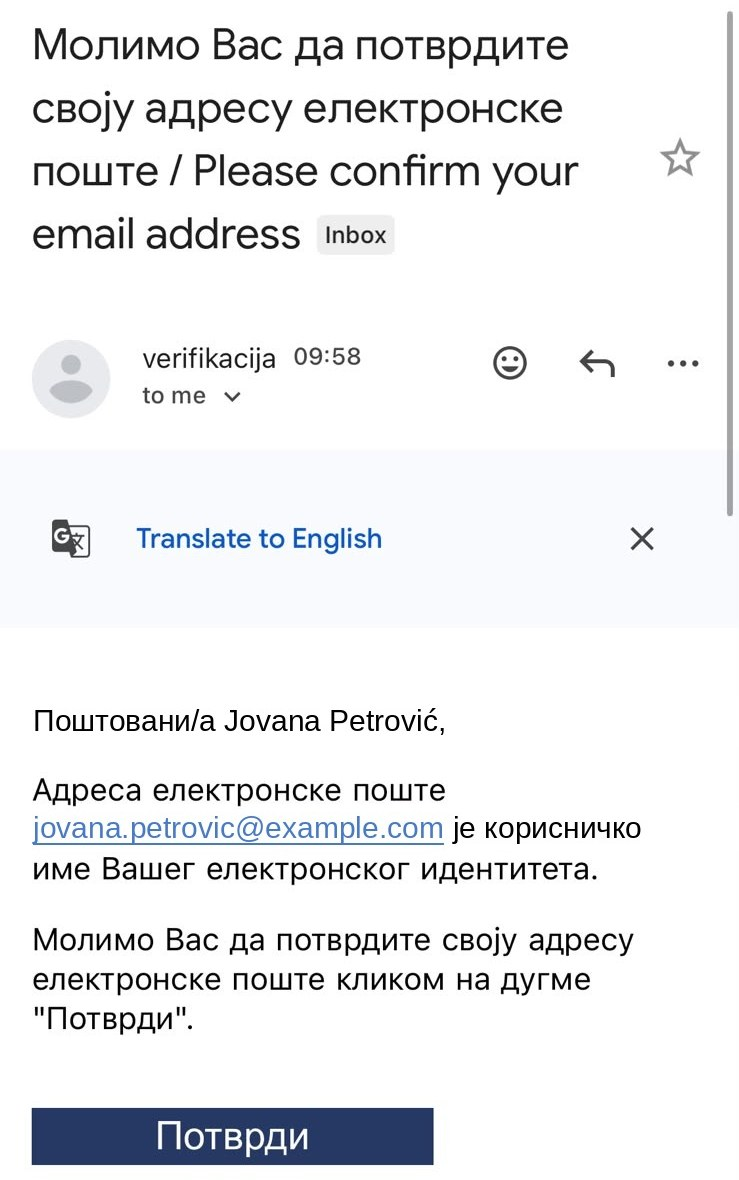
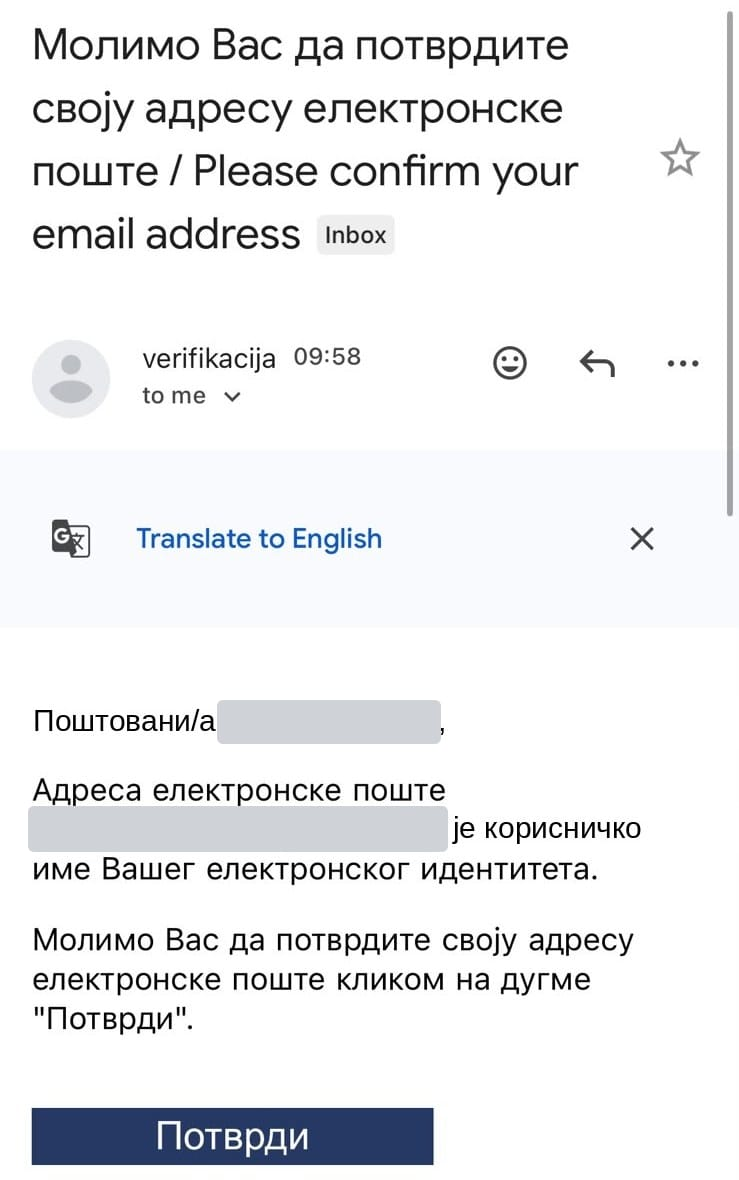
content: apply review for the registration flow
1. Removed group Крај from done, done-basic and help-contact; end screens show no progress line, groups are now 5.
2. help-contact links the eID contact form (https://eid.gov.rs/sr-Cyrl-RS/kontakt); no phone number is published on eid.gov.rs or euprava.gov.rs, so none added.
3. email-missing gets answer Погрешио/ла сам адресу -> register-open; body names the button.
4. check-id-card specimen cropped to the chip card front (800x508); prepare-id-photos front and back stacked (800x1040); Latin caption removed, alt text updated.
5. register-error gets answer Већ сам регистрован/а -> confirm-email; body points to it instead of "try to log in".
6. confirm-email screenshot: name and email address covered with grey boxes; not recaptured, Gmail UI stays English.
7. wait-activation adds "или на почетку изаберите Већ имам налог".
8. how-to-get-id-card: dropped the passport sentence.
9. activate-consentid failure label changed to Нисам успео/ла, matching create-email.
10. register-open: three actions as a numbered list.
11. prepare-id-photos: фотографију -> фотографије.
12. account-ready: Портал Локалне пореске администрације (ЛПА) on first use.
13. email-missing: folder Непожељно (Spam) and category Промоције, per Google's Serbian Gmail help.
14. how-to-get-id-card links the MUP ID card page /wps/portal/sr/gradjani/dokumenta/licna+karta (200).
15. create-email: accounts.google.com/signup opens the name form on iPhone 13 webkit; URL unchanged.
[…]

Changed region(s): [[0.0311, 0.6712, 0.6225, 0.7322], [0.2801, 0.5797, 0.6225, 0.6407]]

diff --git a/content/nodes/prepare-id-photos/index.md b/content/nodes/prepare-id-photos/index.md
@@ -1,10 +1,10 @@
-На регистрацији ћете приложити фотографију личне карте. Боље је да их направите сада.
+На регистрацији ћете приложити фотографије личне карте. Боље је да их направите сада.
 
 1. Ставите личну карту на сто, на тамну подлогу.
 2. Упалите светло, али пазите да се на картици не сија одсјај.
 3. Фотографишите **предњу** страну. Сва четири угла морају да се виде.
 4. Окрените картицу и фотографишите **задњу** страну.
 
-![Специмен личне карте, предња и задња страна](./id-card-specimen.jpg)
+![Специмен личне карте: предња страна горе, задња страна доле](./id-card-specimen.jpg)
 
 Ако се региструјете пасошем, фотографишите страну са својом сликом.

diff --git a/content/nodes/register-open/index.md b/content/nodes/register-open/index.md
@@ -1,3 +1,7 @@
-Притисните дугме испод. Отвориће се формулар за регистрацију на Порталу еИД (eid.gov.rs). То је налог којим улазите на еУправу.
+Формулар за регистрацију је на Порталу еИД (eid.gov.rs). То је налог којим улазите на еУправу.
 
-Држите овај водич отворен. Када видите формулар, вратите се овде и притисните **Видим формулар**. Водич ће вам рећи шта да упишете у које поље.
+1. Притисните дугме испод.
+2. Када се формулар отвори, вратите се у овај водич. Не затварајте га.
+3. Притисните **Видим формулар**.
+
+Водич ће вам рећи шта да упишете у које поље.

diff --git a/content/nodes/register-error/index.md b/content/nodes/register-error/index.md
@@ -2,7 +2,7 @@
 
 - **ЈМБГ** — проверите да сте уписали свих 13 цифара.
 - **Име и презиме** — морају бити исти као у личној карти.
-- **Имејл** — ако пише да адреса већ постоји, можда сте већ регистровани. Покушајте да се пријавите.
+- **Имејл** — ако пише да адреса већ постоји, можда сте већ регистровани. Притисните **Већ сам регистрован/а** и потражите поруку за потврду у пошти.
 - **Фотографије** — ако је слика превелика, фотографишите поново, без зумирања.
 
 Поправите поље и поново притисните **Региструј ме**.

diff --git a/content/nodes/email-missing/index.md b/content/nodes/email-missing/index.md
@@ -1,7 +1,7 @@
 Порука понекад стигне после неколико минута.
 
 1. Сачекајте десет минута и освежите пошту.
-2. Погледајте у фасцикли **Нежељена пошта** (Spam) и **Промоције**.
+2. Погледајте у фолдеру **Непожељно** (Spam) и у категорији **Промоције**.
 3. Проверите да ли сте у формулару тачно уписали имејл адресу.
 
-Ако сте погрешили имејл адресу, региструјте се поново са тачном.
+Ако сте погрешили имејл адресу, региструјте се поново са тачном. Притисните **Погрешио/ла сам адресу**.

diff --git a/content/nodes/account-ready/index.md b/content/nodes/account-ready/index.md
@@ -1,7 +1,7 @@
 Са налогом сада можете:
 
 - да закажете термин за личну карту или пасош,
-- да уђете на Портал ЛПА и проверите порез на имовину,
+- да уђете на Портал Локалне пореске администрације (ЛПА) и проверите порез на имовину,
 - да користите апликацију еУправа.
 
 За изводе, уверења и еСандуче потребан је виши ниво поузданости. Њега добијате бесплатном апликацијом **ConsentID**, у следећем кораку.

diff --git a/content/nodes/check-id-card/index.md b/content/nodes/check-id-card/index.md
@@ -3,6 +3,6 @@
 - Ако тај датум још није прошао, лична карта **важи**.
 - Ако је датум прошао, лична карта **не важи** и треба вам нова.
 
-![Специмен личне карте са чипом и без чипа, предња и задња страна](./id-card-specimen.jpg)
+![Специмен предње стране личне карте са чипом. Ред Важи до је при дну, испод датума издавања](./id-card-specimen.jpg)
 
 За регистрацију важе обе врсте личне карте: и са чипом и без чипа.

diff --git a/content/nodes/help-contact/index.md b/content/nodes/help-contact/index.md
@@ -1,5 +1,5 @@
 Замолите неког од породице или комшија да вам помогне.
 
-Можете и да пошаљете питање преко контакт форме на сајту eid.gov.rs, у делу **Контакт**.
+Питање можете послати и преко контакт форме на Порталу еИД: [отворите страницу Контакт](https://eid.gov.rs/sr-Cyrl-RS/kontakt).
 
 Ако вам је лакше уживо, налог можете отворити и на шалтеру, на пример у пошти.

diff --git a/content/nodes/wait-activation/index.md b/content/nodes/wait-activation/index.md
@@ -2,4 +2,4 @@
 
 Када налог буде активан, добићете поруку на имејл.
 
-Сада можете да затворите водич. Када се вратите, притисните **Наставите где сте стали**.
+Сада можете да затворите водич. Када се вратите, притисните **Наставите где сте стали** или на почетку изаберите **Већ имам налог**.

diff --git a/content/nodes/how-to-get-id-card/index.md b/content/nodes/how-to-get-id-card/index.md
@@ -3,5 +3,3 @@
 1. Понесите стару личну карту или други документ са фотографијом.
 2. На шалтеру ћете платити таксу.
 3. Када добијете нову личну карту, вратите се овде и наставите.
-
-Ако имате важећи пасош, можете се регистровати и са њим.
